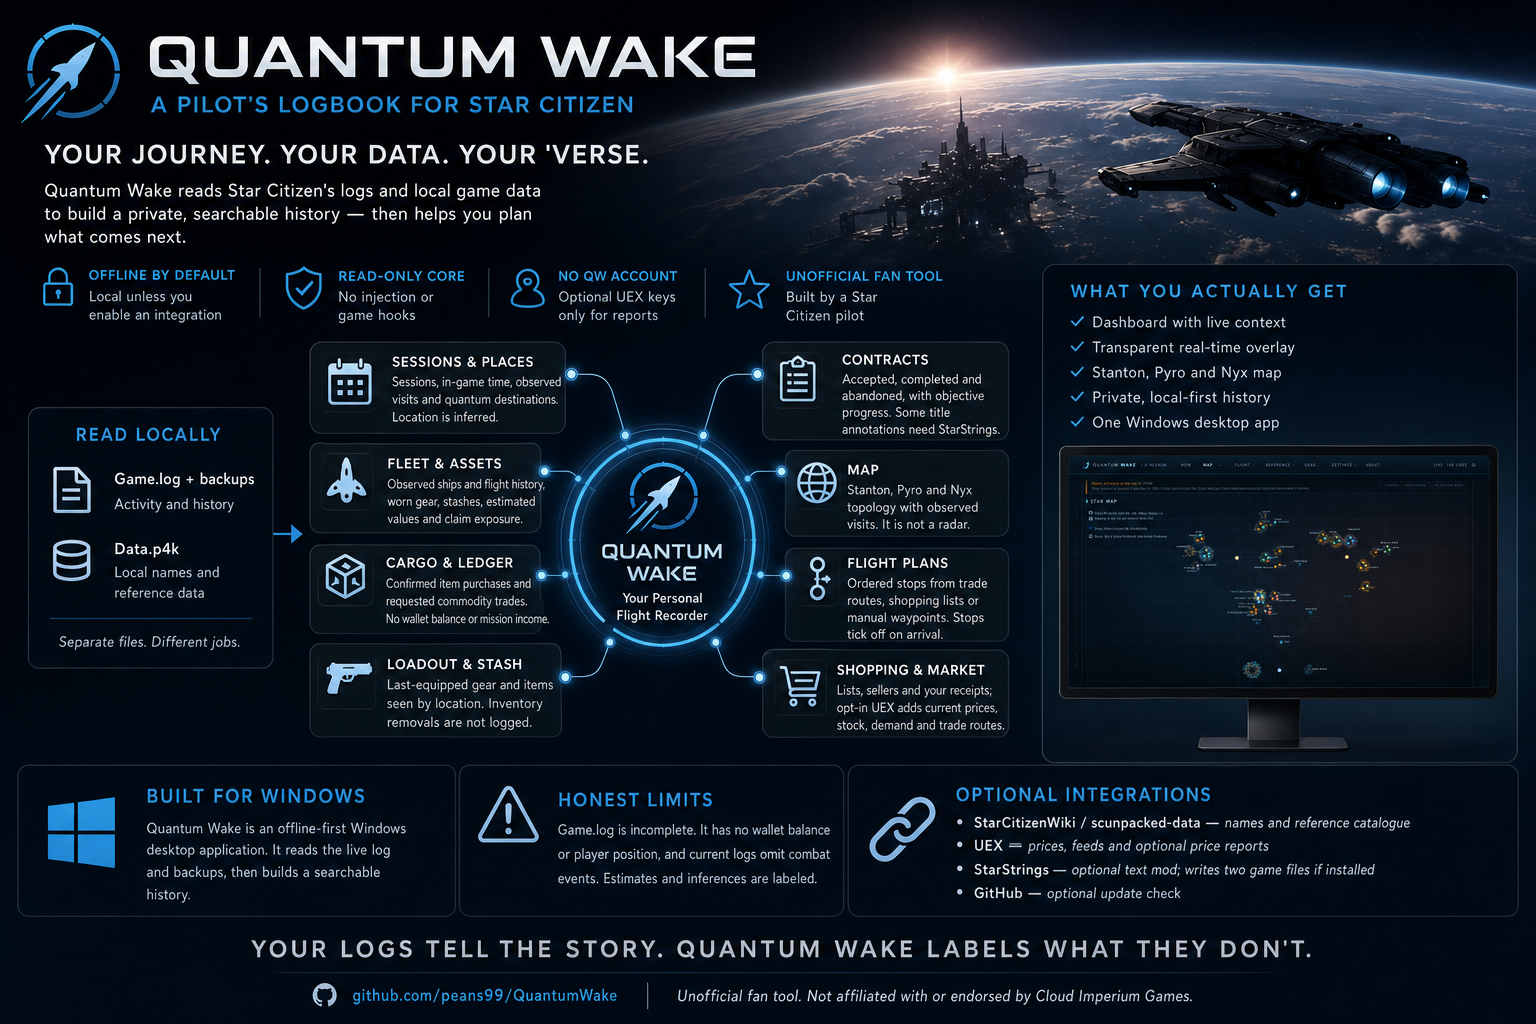
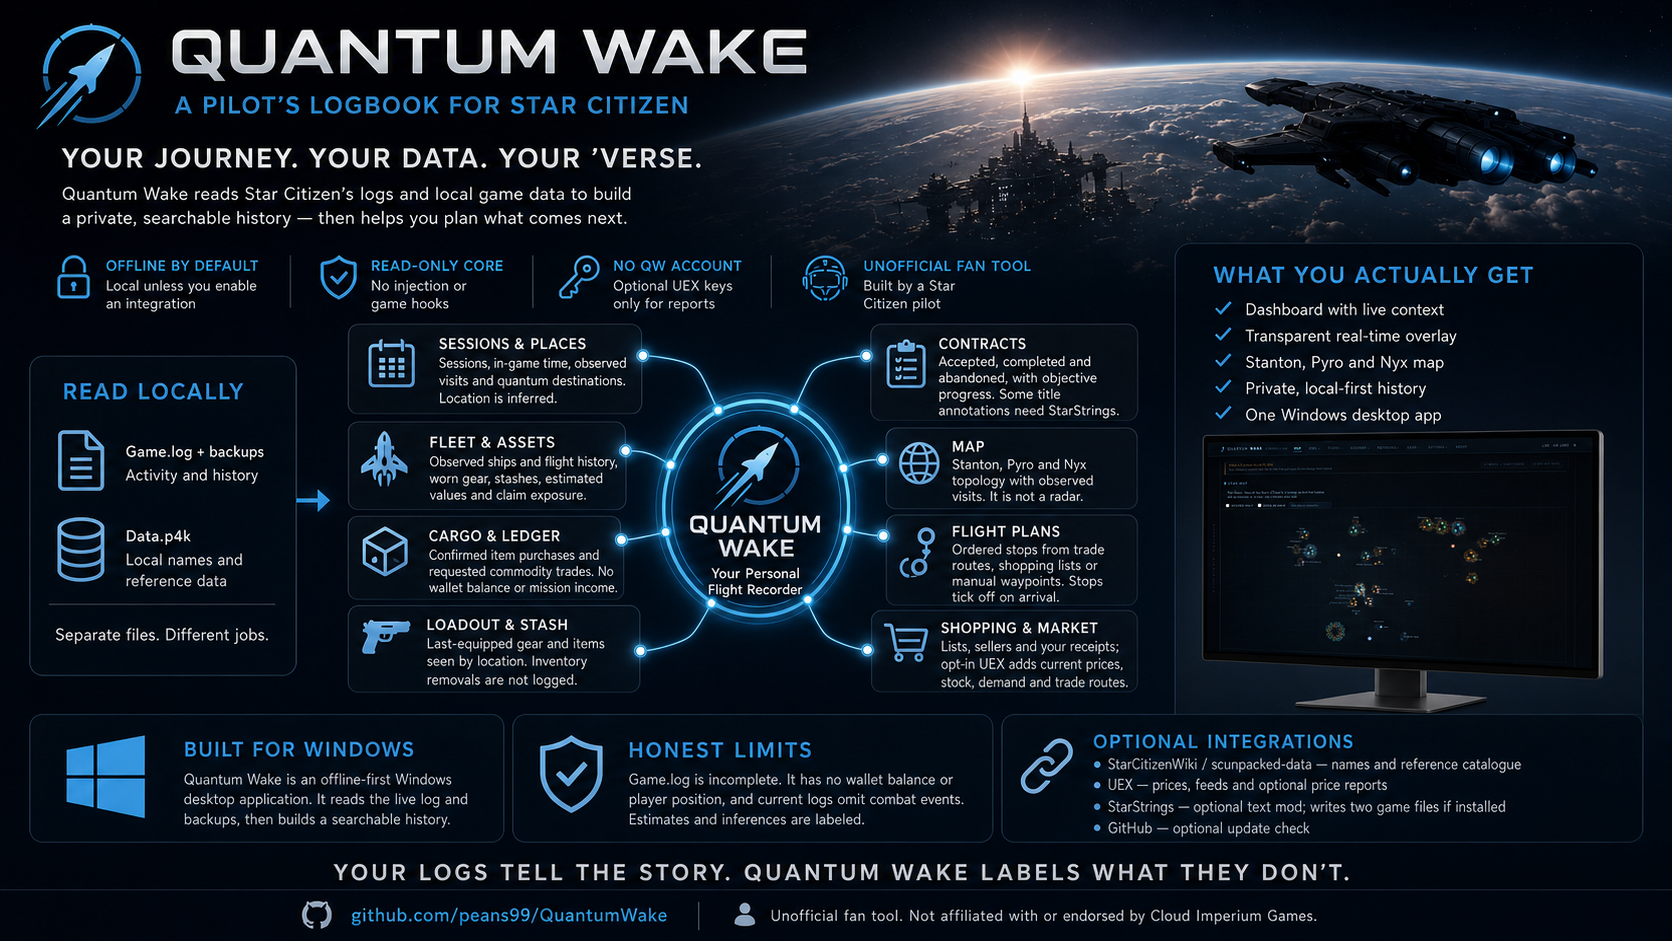
0.7.18 - reframe the overview graphic for a screen
Same picture, wider frame: 1672x941 instead of 1536x1024. The overview is the
first thing on the page and the tall version spent most of a screen on itself,
so a reader met the infographic before the sentence explaining what the app is.

Kept at the same path deliberately. README line 25 is the only reference to it
anywhere in the repo, and swapping the file rather than the link means nothing
has to be found and updated - including the copy in whatever release zip is
already downloaded.

Opens a 0.7.18 section rather than renaming 0.7.17's, because 0.7.17 is tagged
and released now. Renaming it would have carried notes people have already read
into a heading for a version that does not exist yet.

No-payload-bump: an image and a heading, nothing stored is read

Changed region(s): [[0.0, 0.0, 1.0, 0.9862]]

diff --git a/README.md b/README.md
@@ -353,6 +353,12 @@ affiliated with or endorsed by Cloud Imperium Games.
 Newest first. Each version's section is what the GitHub release says too — the
 release workflow lifts it from here, so it is written once.
 
+### 0.7.18
+
+- **A clearer overview at the top of this page.** The at-a-glance graphic is
+  the same picture in a wider frame, so it fits a screen rather than asking
+  you to scroll it. Nothing in the app changed.
+
 ### 0.7.17
 
 - **Commodity history now says what is actually missing.** When live UEX
